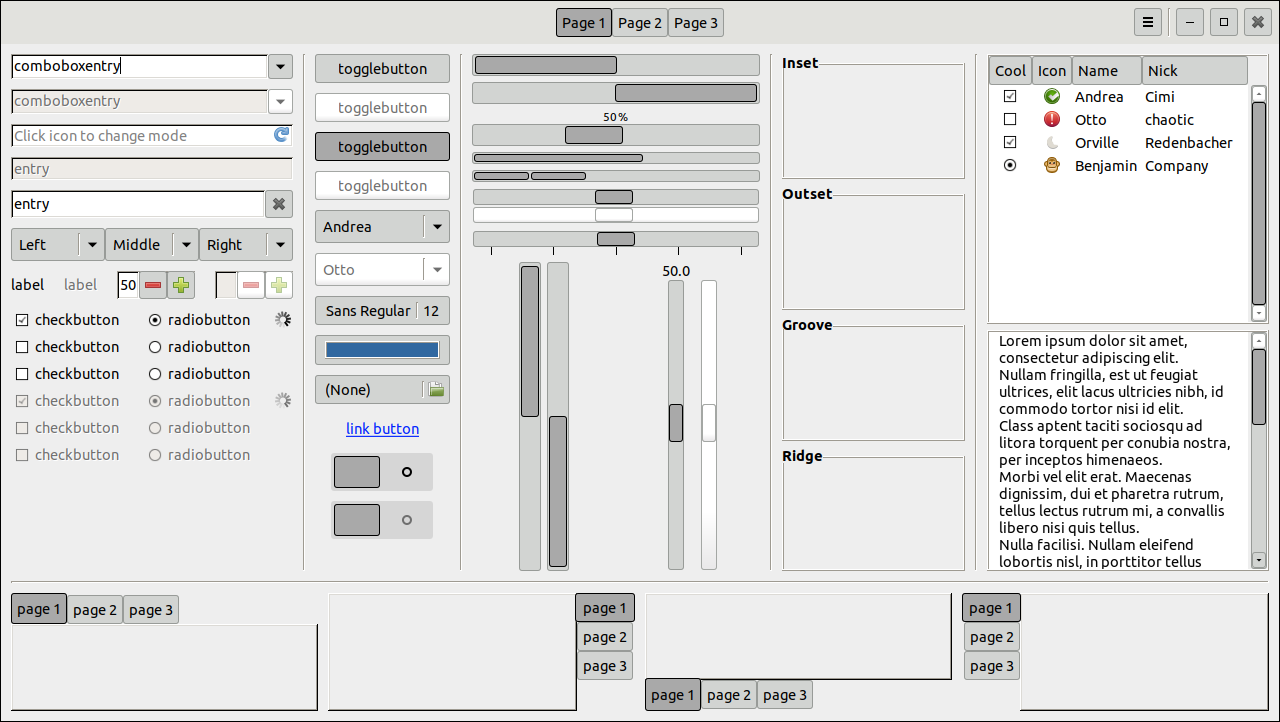
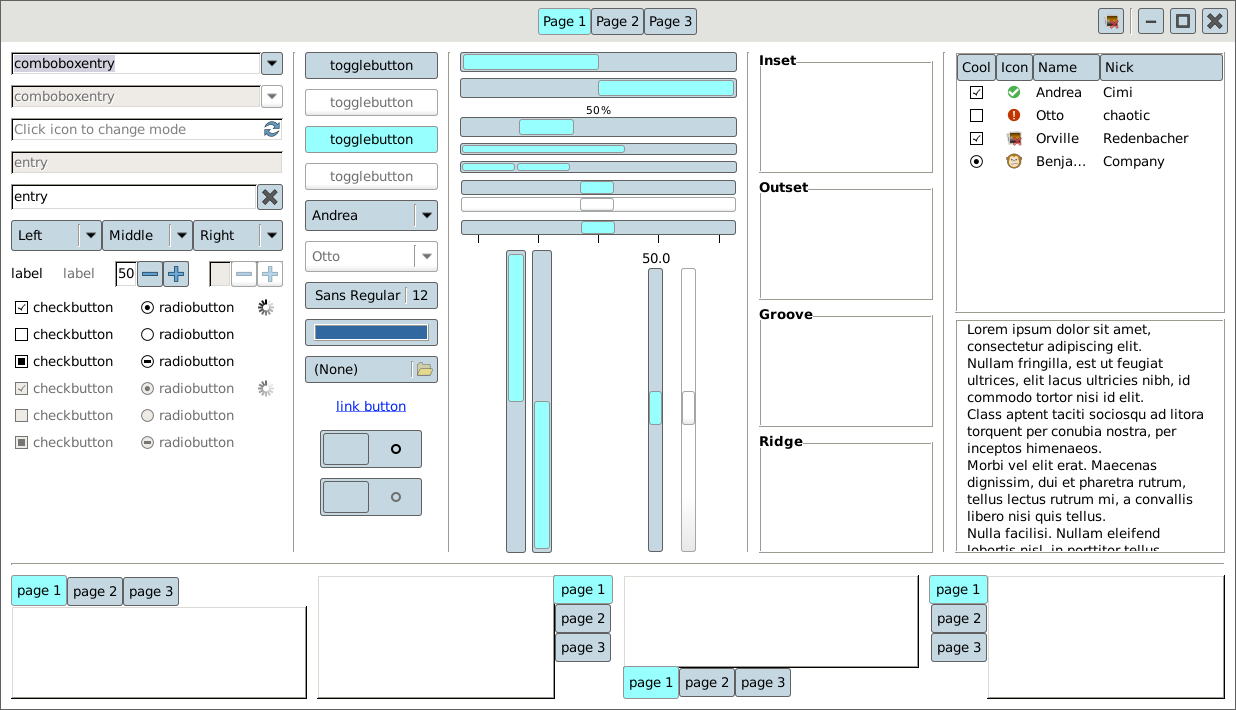
initial port of stark-blueish

Changed region(s): [[0.0, 0.0, 1.0, 1.0], [0.0, 0.8056, 0.1537, 0.8676], [0.2152, 0.7746, 0.246, 0.8056]]

diff --git a/src/gtk-3.0/gtk-widgets.css b/src/gtk-3.0/gtk-widgets.css
@@ -43,15 +43,13 @@
 selection,
 *:selected,
 .view:selected {
-	background: #526f88;
-	color: white;
+	background: #d4d1de;
 }
 selection:focus,
 *:selected:focus,
 .view:selected:focus,
 *:focus *:selected {
-	background: #526f88;
-	color: white;
+	background: #d4d1de;
 }
 .rubberband,
 .view.rubberband,
@@ -70,14 +68,14 @@ button.flat {
 }
 button:not(.flat),
 .button {
-	background-color: #D2D4D2;
-	border: 1px solid #989B98;
+	background-color: #C5D8E2;
+	border: 1px solid #616161;
 	border-radius: 3px;
 	padding: .35em;
 }
 button:not(.flat):hover, .button:not(.flat):hover {
 	background-color: @theme_selected_bg_color;
-	border: 1px solid black;
+	border: 1px solid #979494;
 }
 button:active, .button:active,
 button:active:hover, .button:active:hover,
@@ -85,7 +83,7 @@ button.toggle:checked,
 button.toggle:active:hover,
 stackswitcher button:checked {
 	background-color: @theme_selected_bg_color;
-	border: 1px solid black;
+	border: 1px solid #979494;
 }
 button:disabled, .button:disabled {
 	background-image: linear-gradient(to bottom, white 80%, #e9e8e9);
@@ -110,8 +108,8 @@ button.toggle:checked:disabled  {
  * scrollbars *
  **************/
 scrollbar button {
-	background-color: #D2D4D2;
-	border: 1px solid #989B98;
+	background-color: #C5D8E2;
+	border: 1px solid #616161;
 	border-radius: 3px;
 	padding: .35em;
 }
@@ -119,7 +117,7 @@ scrollbar button:hover,
 scrollbar button:active,
 scrollbar button:active:hover {
 	background-color: @theme_selected_bg_color;
-	border: 1px solid black;
+	border: 1px solid #979494;
 }
 scrollbar button:disabled {
 	background-image: linear-gradient(to bottom, white 80%, #e9e8e9);
@@ -127,7 +125,7 @@ scrollbar button:disabled {
 }
 scrollbar slider {
 	background-color: @theme_selected_bg_color;
-	border: 1px solid black;
+	border: 1px solid #979494;
 	border-radius: 3px;
 }
 scrollbar.vertical slider {
@@ -164,7 +162,7 @@ check, radio, .view.cellradio {
 	min-width: 13px;
 }
 checkbutton:hover, radiobutton:hover {
-	background-color: @theme_selected_bg_color;
+	background-color: #fcf9f7;
 }
 checkbutton label, radiobutton label {
 	padding-right: .5em;
@@ -233,7 +231,7 @@ spinbutton * {
 	background: @theme_base_color;
 }
 spinbutton button {
-	background-color: #D2D4D2;
+	background-color: #C5D8E2;
 }
 
 /**************
@@ -277,8 +275,8 @@ menubar > menuitem {
 	border-radius: 3px;
 }
 menubar > menuitem:hover {
-	background-color: #D2D4D2;
-	border: 1px solid #989B98;
+	background-color: #C5D8E2;
+	border: 1px solid #616161;
 }
 menuitem {
 	margin: 1px;
@@ -287,8 +285,8 @@ menuitem {
 	border-radius: 3px;
 }
 menuitem:hover {
-	background-color: #D2D4D2;
-	border: 1px solid #989B98;
+	background-color: #C5D8E2;
+	border: 1px solid #616161;
 }
 menu separator {
 	border-image: url("assets/separator-horizontal.png") 1 / 1px stretch;
@@ -353,36 +351,36 @@ notebook.frame > .frame {
 }
 notebook header.top tab,
 notebook.frame > .frame.top {
-	background-color: #D2D4D2;
-	border: 1px solid #989B98;
+	background-color: #C5D8E2;
+	border: 1px solid #616161;
 	border-radius: 3px;
 	padding: 5px;
 }
 notebook header.bottom tab,
 notebook.frame > .frame.bottom {
-	background-color: #D2D4D2;
-	border: 1px solid #989B98;
+	background-color: #C5D8E2;
+	border: 1px solid #616161;
 	border-radius: 3px;
 	padding: 5px;
 }
 notebook header.left tab,
 notebook.frame > .frame.left {
-	background-color: #D2D4D2;
-	border: 1px solid #989B98;
+	background-color: #C5D8E2;
+	border: 1px solid #616161;
 	border-radius: 3px;
 	padding: 5px;
 }
 notebook header.right tab,
 notebook.frame > .frame.right {
-	background-color: #D2D4D2;
-	border: 1px solid #989B98;
+	background-color: #C5D8E2;
+	border: 1px solid #616161;
 	border-radius: 3px;
 	padding: 5px;
 }
 notebook header tab:checked,
 notebook.frame > .frame:active {
 	background-color: @theme_selected_bg_color;
-	border: 1px solid black;
+	border: 1px solid #979494;
 }
 notebook header.top tab:checked {
 	margin-top: -2px;
@@ -427,8 +425,8 @@ headerbar {
 	padding: 7px;
 }
 decoration {
-	background-color: #D2D4D2;
-	border: 1px solid black;
+	background-color: #C5D8E2;
+	border: 1px solid #616161;
 }
 
 /****************************
@@ -447,7 +445,7 @@ decoration {
  * popovers *
  ************/
 popover {
-	border: 1px solid #989B98;
+	border: 1px solid #979494;
 }
 popover .flat {
 	padding: 5px;
@@ -459,7 +457,7 @@ modelbutton.flat {
 }
 
 modelbutton.flat:hover {
-	border: 1px solid black;
+	border: 1px solid #979494;
 	background-color: @theme_selected_bg_color;
 }
 
@@ -483,7 +481,7 @@ toolbar button {
 }
 toolbar button:hover {
 	background-color: @theme_selected_bg_color;
-	border: 1px solid black;
+	border: 1px solid #979494;
 }
 toolbar button:disabled {
 	background: none;
@@ -526,7 +524,7 @@ list row {
 }
 list row:hover {
 	background-color: @theme_selected_bg_color;
-	border: 1px solid black;
+	border: 1px solid #979494;
 	border-radius: 3px;
 }
 
@@ -599,8 +597,8 @@ scale trough,
 treeview.view.trough,
 treeview.view.trough:selected,
 scrollbar {
-	background-color: #D2D4D2;
-	border: 1px solid #989B98;
+	background-color: #C5D8E2;
+	border: 1px solid #616161;
 	border-radius: 3px;
 }
 
@@ -613,7 +611,7 @@ scale {
 scale slider {
 	background-color: @theme_selected_bg_color;
 	border-radius: 3px;
-	border: 1px solid black;
+	border: 1px solid #979494;
 }
 scale slider:disabled,
 scale trough:disabled {
@@ -678,7 +676,7 @@ progressbar trough {
 progressbar progress,
 treeview.view.progressbar {
 	background-color: @theme_selected_bg_color;
-	border: 1px solid black;
+	border: 1px solid #979494;
 	border-radius: 3px;
 	margin-top: 1px;
 	margin-bottom: 1px;
@@ -706,7 +704,7 @@ levelbar block {
 }
 levelbar block.filled {
 	background-color: @theme_selected_bg_color;
-	border: 1px solid black;
+	border: 1px solid #979494;
 	border-radius: 3px;
 	margin: 1px;
 }
@@ -715,25 +713,25 @@ levelbar block.filled {
  * switch *
  **********/
 switch {
-	background-color: #D2D4D2;
-	border: 1px solid #989B98;
+	background-color: #C5D8E2;
+	border: 1px solid #616161;
 	border-radius: 3px;
 	min-height: 2em;
 }
 switch slider {
-	background-color: #D2D4D2;
-	border: 1px solid #989B98;
+	background-color: #C5D8E2;
+	border: 1px solid #616161;
 	border-radius: 3px;
 	margin: 2px;
 	padding: .3em;
 }
 switch:hover, switch:hover slider {
 	background-color: @theme_selected_bg_color;
-	border: 1px solid black;
+	border: 1px solid #979494;
 }
 switch:checked slider {
 	background-color: @theme_selected_bg_color;
-	border: 1px solid black;
+	border: 1px solid #979494;
 }
 
 /************

diff --git a/src/gtk-3.0/gtk.css b/src/gtk-3.0/gtk.css
@@ -20,10 +20,10 @@
 
 @define-color theme_base_color white;
 
-@define-color theme_bg_color #EEEEEE;
+@define-color theme_bg_color #FFFFFF;
 @define-color theme_fg_color black;
 
-@define-color theme_selected_bg_color #a9a9a9;
+@define-color theme_selected_bg_color #98ffff;
 @define-color theme_selected_fg_color black;
 
 @define-color theme_tooltip_bg_color white;

diff --git a/README.md b/README.md
@@ -1,7 +1,7 @@
-Flat-grey-rounded GTK Theme
-===========================
+stark-blueish GTK Theme
+=======================
 
-This is the fork of the [Raleigh Reloaded](https://github.com/vlastavesely/raleigh-reloaded) theme, modified to look like the traditional [Flat-grey-rounded Puppy Linux GTK 2 theme](https://distro.ibiblio.org/puppylinux/pet_packages-noarch/gtk_theme_flat_grey_rounded-1.pet).
+This is the fork of the [Raleigh Reloaded](https://github.com/vlastavesely/raleigh-reloaded) theme, modified to look like the traditional [stark-blueish Puppy Linux GTK 2 theme](https://distro.ibiblio.org/puppylinux/pet_packages-noarch/gtk_theme_stark-blueish-1.pet).
 
 Using Raleigh Reloaded as a base made the GTK 3 porting effort easier, since the GTK 2 theme is very close to Raleigh, the default GTK 2 theme.
 
